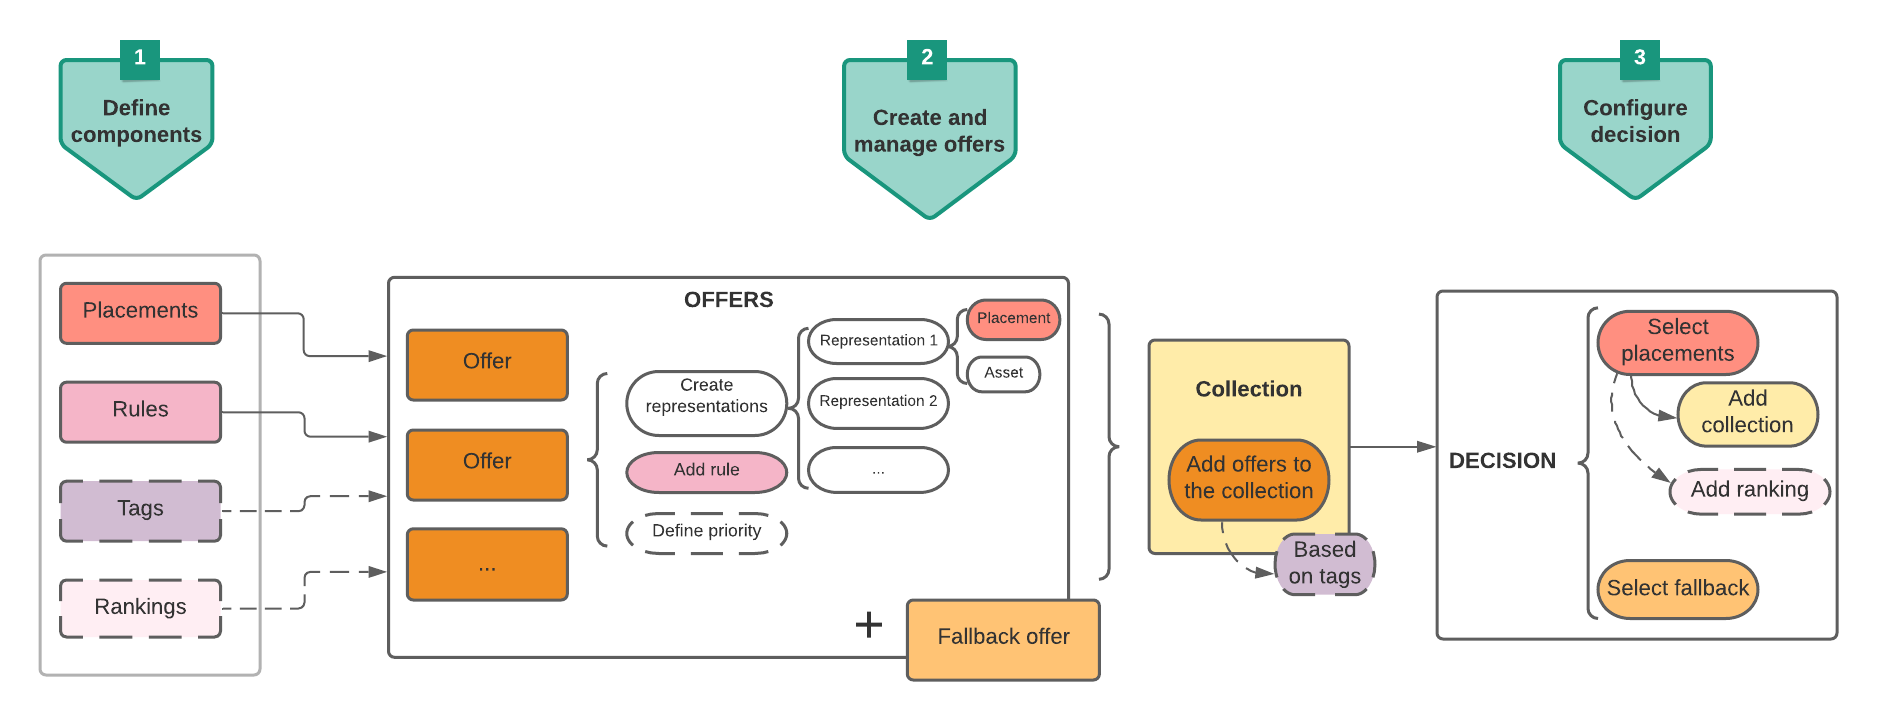
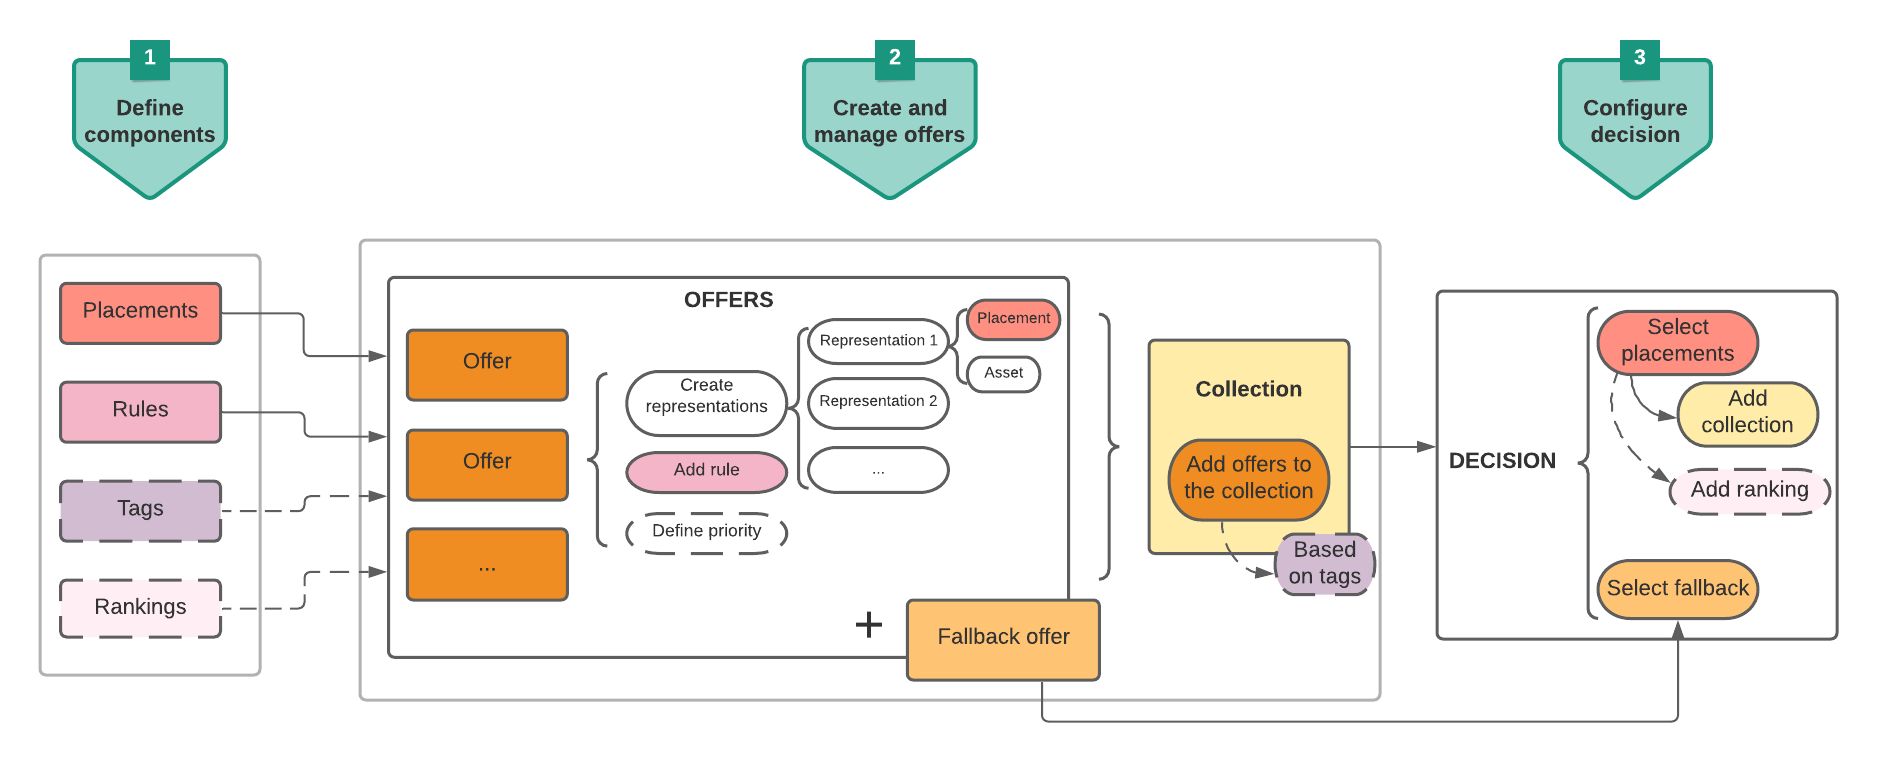
graph updates + link fix

diff --git a/help/using/offers/offer-library/key-steps.md b/help/using/offers/offer-library/key-steps.md
@@ -61,6 +61,6 @@ Before starting to create offers, you must define several components that you wi
 <tr>
 <td><img src="../../assets/do-not-localize/icon-decision.svg" width="60px"><p><a href="../offer-activities/create-offer-activities.md">Create decisions</a></p></td>
 <td><img src="../../assets/do-not-localize/icon-configure-decision.svg" width="60px"><p><a href="../offer-activities/create-offer-activities.md#add-offers">Configure decisions</a></p></td>
-<td><img src="../../assets/do-not-localize/icon-assign-ranking.svg" width="60px"><p><a href="../offer-activities/create-offer-activities.md#add-offers">Assign ranking</a></p></td>
+<td><img src="../../assets/do-not-localize/icon-assign-ranking.svg" width="60px"><p><a href="../offer-activities/configure-offer-selection.md#assign-ranking-formula">Assign ranking</a></p></td>
 </tr>
 </table>
